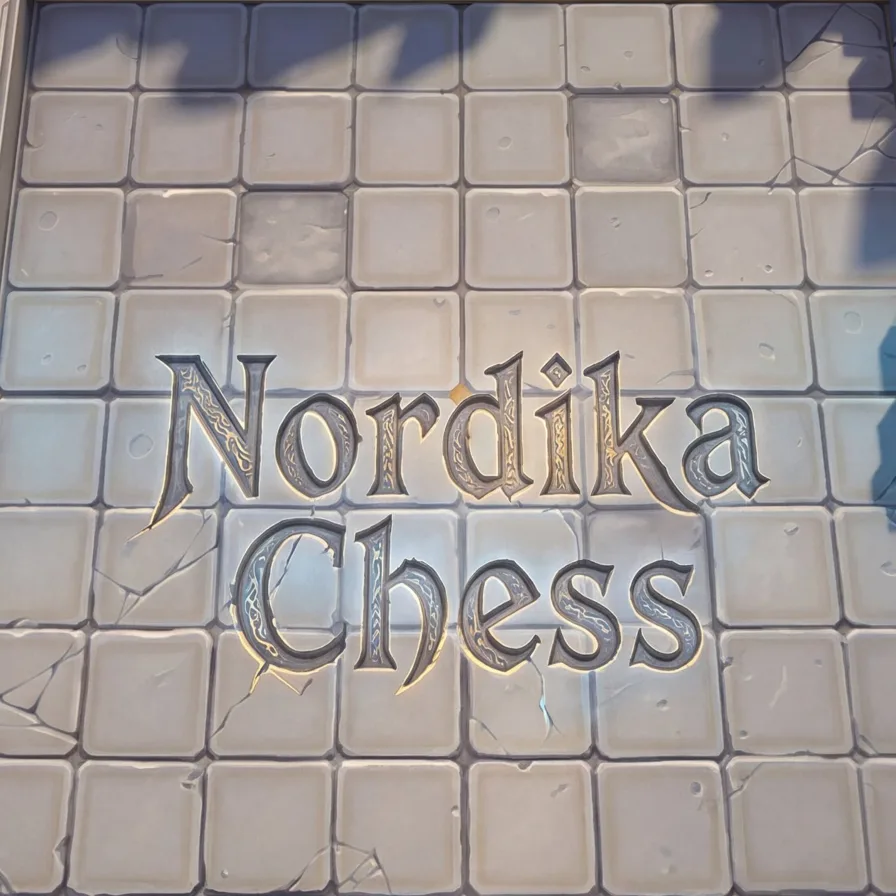
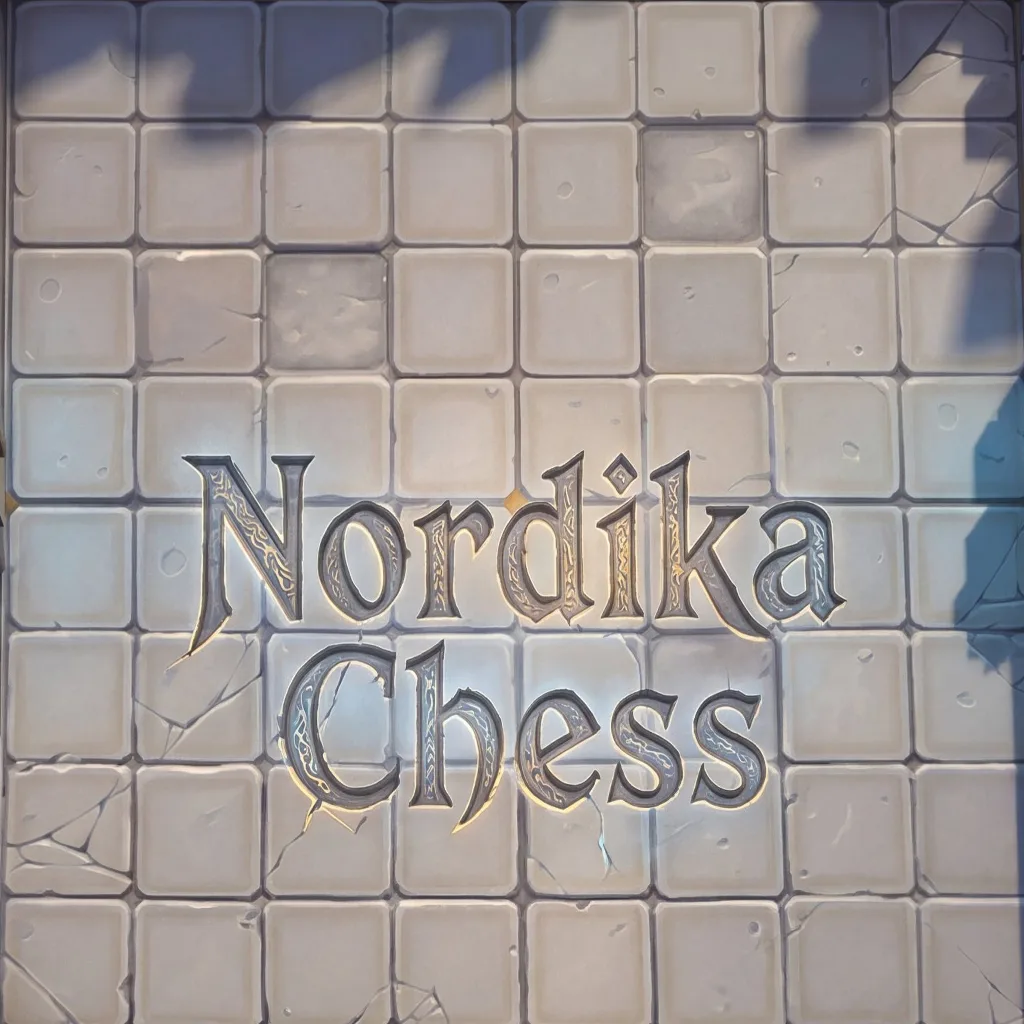
Шахматы: настоящее поле из плит арены, картинки 34 героев, крупные карточки и увеличение выбранного
Claude-Session: https://claude.ai/code/session_01YSRZeNRn6kRHstMejnWoTk

diff --git a/public/chessui.js b/public/chessui.js
@@ -9,7 +9,7 @@
   const stars = n => '★'.repeat(n || 1);
 
   const css = `
-#chs{position:fixed;inset:0;z-index:60;background:#14110d;color:#f2e8d5;overflow-y:auto;overflow-x:hidden;-webkit-overflow-scrolling:touch;--cs:min(11.4vw,calc((100vh - 300px)/9.2),64px);padding:env(safe-area-inset-top,0) 0 env(safe-area-inset-bottom,0);font-family:inherit}
+#chs{position:fixed;inset:0;z-index:60;background:#14110d;color:#f2e8d5;overflow-y:auto;overflow-x:hidden;-webkit-overflow-scrolling:touch;--cs:min(11.4vw,calc((100vh - 395px)/9),64px);padding:env(safe-area-inset-top,0) 0 env(safe-area-inset-bottom,0);font-family:inherit}
 #chs[hidden]{display:none}
 #chs:before{content:"";position:fixed;inset:-6%;background:url(/img/ch-arena.webp?v=1) center/cover;filter:brightness(.5) saturate(1.1);pointer-events:none;animation:chdrift 40s ease-in-out infinite alternate}
 @keyframes chdrift{from{transform:scale(1.02) translate(-1.5%,-1%)}to{transform:scale(1.1) translate(1.5%,1%)}}
@@ -26,30 +26,31 @@
 .chp{background:rgba(0,0,0,.5);border:1px solid #4a3d28;border-radius:6px;padding:2px 1px;text-align:center;font-size:10px;line-height:1.1;overflow:hidden;position:relative}
 .chp b{display:block;white-space:nowrap;overflow:hidden;text-overflow:ellipsis;font-weight:600}.chp i{display:block;height:4px;margin:2px 2px 0;background:#3a2a22;border-radius:2px;overflow:hidden}.chp i u{display:block;height:100%;background:#d2584c}
 .chp.me{border-color:#e8b230;background:rgba(232,178,48,.18)}.chp.dead{opacity:.35}.chp.foe{border-color:#d2584c}
-.chbd{position:relative;width:calc(var(--cs)*8);height:calc(var(--cs)*8);margin:0 auto;border:2px solid #6a5434;border-radius:6px;overflow:hidden;background:#2b2418 url(/img/ch-board.webp?v=1) 0 0/100% 100%;touch-action:manipulation}
+.chbd{position:relative;width:calc(var(--cs)*8);height:calc(var(--cs)*8);margin:0 auto;border:2px solid #6a5434;border-radius:6px;box-shadow:0 4px 14px #000;background:#2b2418 url(/img/ch-board.webp?v=2) 0 0/100% 100%;touch-action:manipulation}
 .chcell{position:absolute;width:var(--cs);height:var(--cs);box-sizing:border-box}
-.chcell.t0,.chcell.t1{background:rgba(70,150,255,.10)}.chcell.e0,.chcell.e1{background:rgba(220,70,50,.13)}.chcell.t1,.chcell.e1{box-shadow:inset 0 0 0 1px rgba(255,255,255,.05)}
+\.chcell{box-shadow:inset 0 0 0 1px rgba(255,255,255,.08)}.chcell.t0,.chcell.t1{background:rgba(60,140,255,.07)}.chcell.e0,.chcell.e1{background:rgba(220,60,40,.14)}.chcell:has(.sel){z-index:30}
 .chcell.ok{box-shadow:inset 0 0 0 2px rgba(120,220,120,.7)}.chcell.sel{box-shadow:inset 0 0 0 3px #ffe27a}
-.chmid{position:absolute;left:0;right:0;top:calc(var(--cs)*4 - 1px);height:2px;background:#e8b230;opacity:.55;pointer-events:none;z-index:3}
+.chmid{position:absolute;left:0;right:0;top:calc(var(--cs)*4 - 2px);height:3px;background:linear-gradient(90deg,transparent,#ffd35a,transparent);opacity:.8;pointer-events:none;z-index:3}
 .chcd{position:relative;width:100%;height:100%;box-sizing:border-box;border:2px solid var(--cc,#888);border-radius:7px;background:linear-gradient(160deg,#4a3d2c,#241c13);display:flex;align-items:center;justify-content:center;overflow:hidden;font-size:calc(var(--cs)*.58);line-height:1}
-.chcd img{position:absolute;inset:0;width:100%;height:100%;object-fit:cover}
+.chcd img{position:absolute;inset:0;width:100%;height:100%;object-fit:cover;object-position:50% 12%}
 .chcd .st{position:absolute;left:1px;top:0;font-size:calc(var(--cs)*.22);color:#ffd35a;text-shadow:0 0 2px #000,0 0 2px #000;letter-spacing:-1px}
 .chcd .it{position:absolute;right:1px;bottom:0;font-size:calc(var(--cs)*.2);text-shadow:0 0 2px #000}
-.chcd .nm{position:absolute;left:0;right:0;bottom:0;font-size:calc(var(--cs)*.17);text-align:center;background:rgba(0,0,0,.6);padding:0 1px;white-space:nowrap;overflow:hidden;text-overflow:ellipsis}
-.chcd.sel{outline:3px solid #ffe27a;outline-offset:-1px;z-index:5}
-.chbn{display:grid;grid-template-columns:repeat(8,var(--cs));gap:0;justify-content:center;margin:6px auto;width:calc(var(--cs)*8);background:rgba(0,0,0,.4);border:1px solid #5a4a30;border-radius:6px}
-.chbn .chcell{position:relative;border:1px dashed rgba(255,255,255,.12)}
+.chcd{transition:transform .14s}.chcd.sel{transform:scale(1.32);z-index:30;box-shadow:0 0 0 2px #ffe27a,0 0 14px 4px rgba(255,226,122,.8),0 6px 12px #000}
+.chbn{display:grid;grid-template-columns:repeat(8,var(--cs));gap:0;justify-content:center;margin:8px auto;width:calc(var(--cs)*8);background:#2b2418 url(/img/ch-bench.webp?v=2) 0 0/100% 100%;border:2px solid #6a5434;border-radius:6px;box-shadow:0 3px 10px #000}
+.chbn .chcell{position:relative}
 .chsy{display:flex;flex-wrap:wrap;gap:4px;min-height:24px;margin:4px 0}
 .chsy span{background:rgba(0,0,0,.5);border:1px solid #5a4a30;border-radius:12px;padding:2px 7px;font-size:12px;opacity:.65}.chsy span.on{opacity:1;border-color:#e8b230;background:rgba(232,178,48,.2)}
-.chit{display:flex;gap:5px;min-height:30px;margin:4px 0;flex-wrap:wrap}.chit b{width:34px;height:34px;display:flex;align-items:center;justify-content:center;background:rgba(0,0,0,.5);border:1px solid #6a5434;border-radius:7px;font-size:20px;font-weight:400}.chit b.sel{border-color:#ffe27a;box-shadow:0 0 0 2px #ffe27a}
-.chinfo{background:rgba(0,0,0,.6);border:1px solid #6a5434;border-radius:8px;padding:7px 9px;margin:5px 0;font-size:13px;line-height:1.35}.chinfo .btn{margin-top:5px;padding:5px 12px;min-height:32px}
-.chshop{display:grid;grid-template-columns:repeat(5,minmax(0,1fr));gap:4px;margin-top:6px}
-.chsc{position:relative;aspect-ratio:3/4;border:2px solid var(--cc);border-radius:8px;background:linear-gradient(160deg,#4a3d2c,#241c13);display:flex;flex-direction:column;align-items:center;justify-content:center;overflow:hidden;cursor:pointer;padding:0;color:inherit;font-family:inherit}
-.chsc .em{font-size:calc(var(--cs)*.78);line-height:1}.chsc img{position:absolute;inset:0;width:100%;height:100%;object-fit:cover}
-.chsc .nm{position:absolute;left:0;right:0;bottom:0;background:rgba(0,0,0,.72);font-size:10px;padding:1px 0 2px;text-align:center;white-space:nowrap;overflow:hidden;text-overflow:ellipsis}
-.chsc .pr{position:absolute;right:2px;top:2px;background:rgba(0,0,0,.7);border-radius:8px;padding:0 5px;font-size:12px;font-weight:700;color:#ffd35a}
-.chsc .tr{position:absolute;left:2px;top:2px;font-size:11px;text-shadow:0 0 2px #000}
-.chsc.no{opacity:.4}.chsc.empty{visibility:hidden}
+.chit{display:flex;gap:5px;margin:4px 0;flex-wrap:wrap}.chit b{width:34px;height:34px;display:flex;align-items:center;justify-content:center;background:rgba(0,0,0,.5);border:1px solid #6a5434;border-radius:7px;font-size:20px;font-weight:400}.chit b.sel{border-color:#ffe27a;box-shadow:0 0 0 2px #ffe27a}
+.chinfo{background:rgba(0,0,0,.72);border:1px solid #6a5434;border-radius:8px;padding:5px 8px;margin:4px 0;font-size:12px;line-height:1.3}.chinfo .btn{margin-top:3px;padding:3px 10px;min-height:28px;font-size:12px}
+.chshop{display:grid;grid-template-columns:repeat(5,minmax(0,1fr));gap:5px;margin-top:8px}
+.chsc{position:relative;aspect-ratio:5/8;border:0;border-radius:7px;background:#241c13;overflow:hidden;cursor:pointer;padding:0;color:inherit;font-family:inherit;box-shadow:0 3px 8px #000}
+.chsc img{position:absolute;inset:0;width:100%;height:100%;object-fit:fill}
+.chsc .em{position:absolute;left:0;right:0;top:22%;text-align:center;font-size:calc(var(--cs)*.9);line-height:1}
+.chsc .pr{position:absolute;left:3%;top:1%;width:29%;aspect-ratio:1;display:flex;align-items:center;justify-content:center;font-size:clamp(12px,4.8vw,22px);font-weight:800;color:#fff;text-shadow:0 1px 3px #000,0 0 3px #000}
+.chsc .nm{position:absolute;left:11%;right:11%;bottom:2.5%;text-align:center;font-size:clamp(8px,2.6vw,12px);font-weight:700;color:#fff;text-shadow:0 1px 2px #000,0 0 3px #000;white-space:nowrap;overflow:hidden;text-overflow:ellipsis}
+.chsc .tr{position:absolute;right:6%;top:3%;display:flex;flex-direction:column;gap:1px;font-size:clamp(11px,3.4vw,16px);text-shadow:0 0 3px #000,0 0 3px #000}
+.chsc:active{transform:scale(1.06)}.chsc.no{filter:brightness(.55) saturate(.6)}.chsc.empty{visibility:hidden}
+.chinfo{display:flex;gap:9px}.chinfo .cimg{width:48px;flex:none;aspect-ratio:5/8;border-radius:6px;overflow:hidden;position:relative;box-shadow:0 2px 6px #000}.chinfo .cimg img{position:absolute;inset:0;width:100%;height:100%}.chinfo .ctx{min-width:0}
 .chbt{display:grid;grid-template-columns:1fr 1fr auto;gap:5px;margin-top:6px}.chbt .btn{padding:8px 4px;font-size:13px;min-height:38px}
 .chxp{height:6px;background:#3a2a22;border-radius:3px;margin:5px 0;overflow:hidden}.chxp i{display:block;height:100%;background:#4a86e0}
 .cbn{position:fixed;left:50%;top:38%;transform:translate(-50%,-50%);background:rgba(10,8,6,.92);border:2px solid #e8b230;border-radius:14px;padding:14px 22px;text-align:center;z-index:70;font-size:18px;font-weight:700;pointer-events:none;animation:chfade 2.6s forwards}
@@ -72,7 +73,7 @@
 
   function art(id, cls) {
     const c = C.CARDS[id];
-    return `<img src="/img/ch-${id}.webp?v=1" alt="" onerror="this.remove()">`;
+    return `<img src="/img/chp-${id}.webp?v=1" alt="" onerror="this.remove()">`;
   }
   function cardHtml(u, sel, extraCls) {
     const c = C.CARDS[u.c];
@@ -189,16 +190,16 @@
       if (u) {
         const c = C.CARDS[u.c], R = C.TRAITS[c.r], K = C.TRAITS[c.k], sp = C.SP[c.sp], s = C.stats(u.c, u.s, u.i, {});
         const price = c.c * [0, 1, 3, 9][u.s];
-        return `<div class="chinfo"><b>${c.e} ${c.n}</b> ${stars(u.s)} · ${R.e}${R.n} · ${K.e}${K.n}<br>❤ ${s.hp} · ⚔ ${s.atk} · дальность ${s.rg}<br><b>${sp.n}:</b> ${sp.d}${u.i.length ? '<br>' + u.i.map(q => C.ITEMS[q].e + ' ' + C.ITEMS[q].n).join(', ') : ''}<br><button class="btn small" data-c="sell" type="button">Продать за ${price} 🪙</button></div>`;
+        return `<div class="chinfo"><div class="cimg" style="background:#241c13"><img src="/img/ch-${u.c}.webp?v=1" alt="" onerror="this.remove()"></div><div class="ctx"><b>${c.e} ${c.n}</b> ${stars(u.s)} · ${R.e}${R.n} · ${K.e}${K.n}<br>❤ ${s.hp} · ⚔ ${s.atk} · дальность ${s.rg}<br><b>${sp.n}:</b> ${sp.d}${u.i.length ? '<br>' + u.i.map(q => C.ITEMS[q].e + ' ' + C.ITEMS[q].n).join(', ') : ''}<br><button class="btn small" data-c="sell" type="button">Продать за ${price} 🪙</button></div></div>`;
       }
     }
     return '';
   }
   function prepHtml(v) {
     const me = v.me;
-    const shop = me.shop.map((id, i) => { if (!id) return '<div class="chsc empty"></div>'; const c = C.CARDS[id], no = me.gold < c.c; return `<button class="chsc${no ? ' no' : ''}" style="--cc:${CCOL[c.c]}" data-c="buy" data-i="${i}" type="button"><span class="em">${c.e}</span>${art(id)}<span class="pr">${c.c}🪙</span><span class="tr">${C.TRAITS[c.r].e}${C.TRAITS[c.k].e}</span><span class="nm">${c.n}</span></button>`; }).join('');
+    const shop = me.shop.map((id, i) => { if (!id) return '<div class="chsc empty"></div>'; const c = C.CARDS[id], no = me.gold < c.c; return `<button class="chsc${no ? ' no' : ''}" data-c="buy" data-i="${i}" type="button"><span class="em">${c.e}</span><img src="/img/ch-${id}.webp?v=1" alt="" onerror="this.remove()"><span class="pr">${c.c}</span><span class="tr"><i>${C.TRAITS[c.r].e}</i><i>${C.TRAITS[c.k].e}</i></span><span class="nm">${c.n}</span></button>`; }).join('');
     const onB = me.board.filter(Boolean).length;
-    return `${synHtml(v)}<div class="sm" style="text-align:center">На поле: ${onB} из ${me.lvl} · Ур. ${me.lvl}${me.xpn ? ` · опыт ${me.xp}/${me.xpn}` : ' (максимум)'}</div>${me.xpn ? `<div class="chxp"><i style="width:${Math.min(100, me.xp / me.xpn * 100)}%"></i></div>` : ''}<div class="chit">${me.items.map((q, i) => `<b class="${st.item === i ? 'sel' : ''}" data-c="item" data-i="${i}">${C.ITEMS[q].e}</b>`).join('')}</div>${infoHtml(v)}<div class="chshop">${shop}</div><div class="chbt"><button class="btn" data-c="reroll" type="button">🔄 Обновить · 2🪙</button><button class="btn" data-c="xp" type="button">⬆ Опыт · 5🪙</button><button class="btn ghost" data-c="lock" type="button">${me.lock ? '🔒' : '🔓'}</button></div>${me.income ? `<p class="sm muted" style="text-align:center">Доход за раунд: ${me.income.total}🪙 (база 5${me.income.inter ? ' + проценты ' + me.income.inter : ''}${me.income.streak ? ' + серия ' + me.income.streak : ''})</p>` : ''}`;
+    return `${synHtml(v)}<div class="sm" style="text-align:center">На поле: ${onB} из ${me.lvl} · Ур. ${me.lvl}${me.xpn ? ` · опыт ${me.xp}/${me.xpn}` : ' (максимум)'}</div>${me.xpn ? `<div class="chxp"><i style="width:${Math.min(100, me.xp / me.xpn * 100)}%"></i></div>` : ''}${me.items.length ? '<div class="chit">' : '<div class="chit" hidden>'}${me.items.map((q, i) => `<b class="${st.item === i ? 'sel' : ''}" data-c="item" data-i="${i}">${C.ITEMS[q].e}</b>`).join('')}</div>${infoHtml(v)}<div class="chshop">${shop}</div><div class="chbt"><button class="btn" data-c="reroll" type="button">🔄 Обновить · 2🪙</button><button class="btn" data-c="xp" type="button">⬆ Опыт · 5🪙</button><button class="btn ghost" data-c="lock" type="button">${me.lock ? '🔒' : '🔓'}</button></div>${me.income ? `<p class="sm muted" style="text-align:center">Доход за раунд: ${me.income.total}🪙 (база 5${me.income.inter ? ' + проценты ' + me.income.inter : ''}${me.income.streak ? ' + серия ' + me.income.streak : ''})</p>` : ''}`;
   }
   function combatInfo(v) {
     const f = v.fight; if (!f) return '<p class="sm muted" style="text-align:center">Ваш бой окончен, ждём остальных…</p>';
